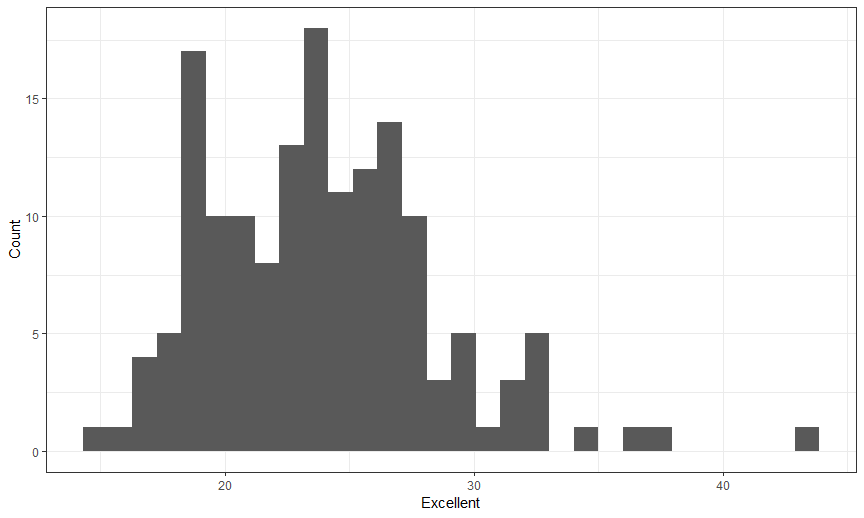
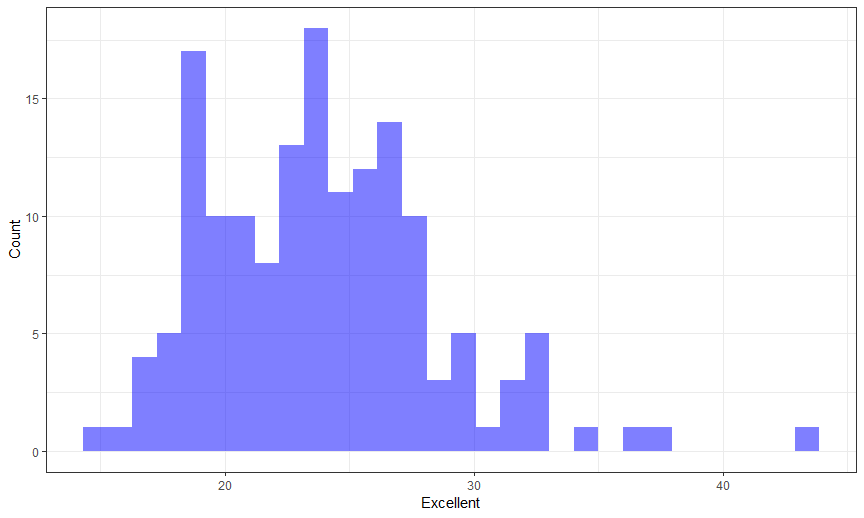
changed histogram fill to a transparent blue

Changed region(s): [[0.0938, 0.0309, 0.7812, 0.8958], [0.9062, 0.8031, 0.9688, 0.8958]]

diff --git a/p8105_hw2_ntw2117.md b/p8105_hw2_ntw2117.md
@@ -116,7 +116,7 @@ brfss_data <- brfss_data %>%
 brfss_data %>% 
   filter(year == "2002") %>% 
   ggplot(aes(x = excellent)) + 
-  geom_histogram() + 
+  geom_histogram(fill = "blue", alpha = 0.5) + 
   labs(x = "Excellent", 
        y = "Count") + 
   theme_bw()
